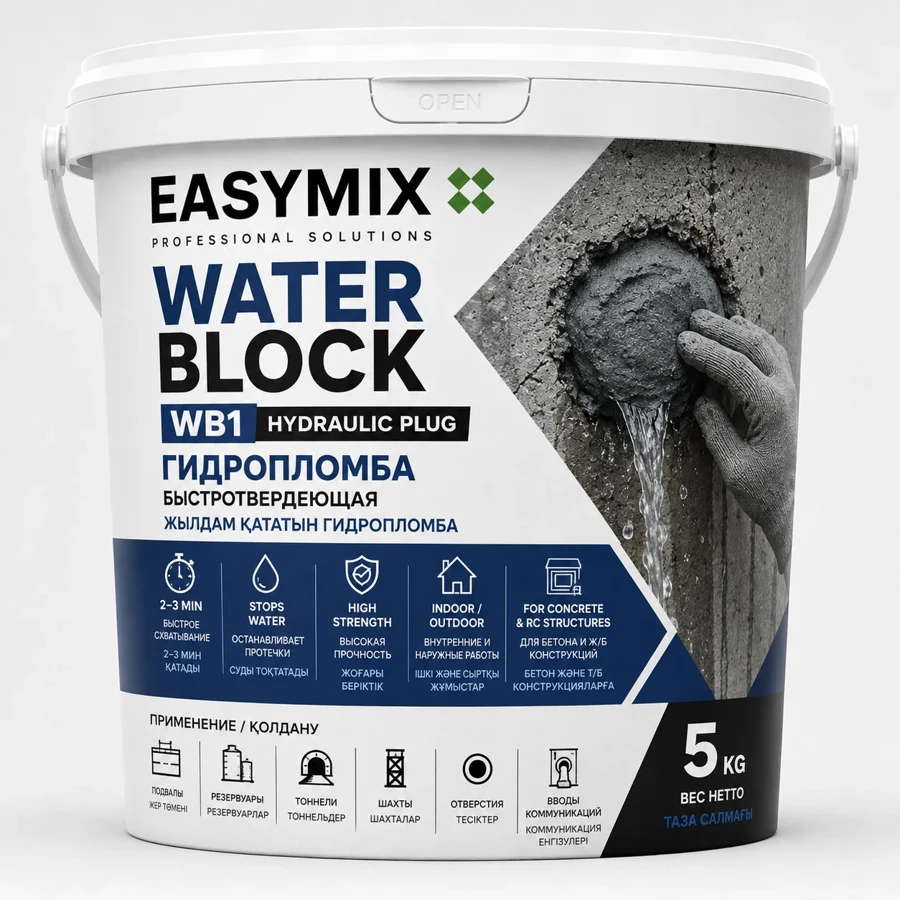
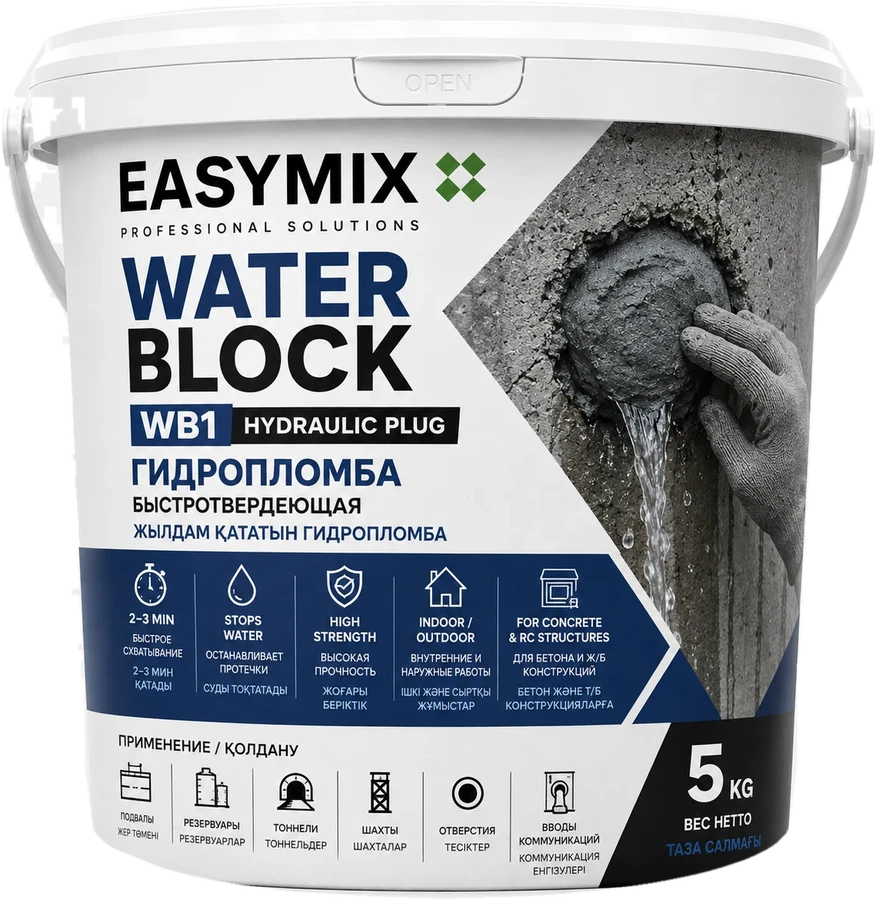
Add Shotcrete Pro CC1 with sprayed-concrete 3D scenarios; fix product image aspect
- Hero product image no longer stretches (height:auto + object-fit) and the
  WaterBlock bucket is now a clean cut-out instead of a photo card.
- New product Shotcrete Pro CC1 (bag cut-out, teal theme, bag data only) with
  three scenarios: tunnel lining, slope stabilisation with soil nails, and a
  tank wall. Generic surface-parametrised builder: cleaning jet, rebar mesh,
  wetting, nozzle spraying the layer cell by cell, curing.

Claude-Session: https://claude.ai/code/session_01V6GFFaks7djnhpgv5PP8Hc

diff --git a/index.html b/index.html
@@ -44,7 +44,7 @@
   .hero-media{position:relative;display:flex;justify-content:center;align-items:center;min-height:460px;z-index:1}
   .hero-media .glow{position:absolute;left:50%;top:50%;width:78%;aspect-ratio:1;transform:translate(-50%,-50%);border-radius:50%;
     background:radial-gradient(circle,rgba(var(--accent-rgb),.55),rgba(var(--accent-rgb),0) 68%);filter:blur(10px)}
-  .hero-bag{position:relative;width:auto;max-width:100%;max-height:520px;filter:drop-shadow(0 30px 40px rgba(0,0,0,.55));
+  .hero-bag{position:relative;width:auto;height:auto;object-fit:contain;max-width:100%;max-height:520px;filter:drop-shadow(0 30px 40px rgba(0,0,0,.55));
     animation:float 6s ease-in-out infinite;transform-origin:50% 100%}
   .hero-media .floor{position:absolute;bottom:-6px;left:18%;right:18%;height:26px;border-radius:50%;background:rgba(0,0,0,.55);filter:blur(10px);animation:floor 6s ease-in-out infinite}
   @keyframes float{0%,100%{transform:translateY(0) rotate(-1.2deg)}50%{transform:translateY(-12px) rotate(.6deg)}}
@@ -386,7 +386,7 @@ window.PRODUCTS = [{
   name: 'EasyMix WaterBlock WB1',
   short: 'WaterBlock WB1',
   kind: 'гидропломба · стоп-течь',
-  image: 'assets/waterblock-wb1-bucket.webp', imageSize: [900, 900], imageCard: true,
+  image: 'assets/waterblock-wb1-bucket.webp', imageSize: [876, 900],
   imageAlt: 'Ведро EasyMix WaterBlock WB1, гидропломба, 5 кг',
   accent: '#4f8fe8', accentRgb: '79,143,232',
   title: [['WATER BLOCK', true], ['WB1', false]],
@@ -456,6 +456,63 @@ window.PRODUCTS = [{
       { text: 'Нагружать — не ранее чем через 1 час', badge: '⏱ 1 час' },
     ]},
   ]
+}, {
+  id: 'cc1',
+  brand: 'EASYMIX',
+  name: 'EasyMix Shotcrete Pro CC1',
+  short: 'Shotcrete Pro CC1',
+  kind: 'торкрет · машинное нанесение',
+  image: 'assets/shotcrete-cc1-bag.webp', imageSize: [458, 866],
+  accent: '#2fb3a6', accentRgb: '47,179,166',
+  title: [['SHOTCRETE PRO', true], ['CC1', false]],
+  category: 'ТОРКРЕТ-БЕТОН · CEMENT BASE',
+  subtitle: 'Сухая смесь для торкретирования',
+  subtitleKz: '',
+  kpis: [
+    ['spray', 'машинное', 'нанесение набрызгом'],
+    ['layers', '10–60 мм', 'толщина слоя'],
+    ['drop', 'водостойкая', 'после твердения'],
+    ['wind', 'NO DUST', 'пониженное пылеобразование'],
+  ],
+  uses: ['Тоннели и выработки', 'Укрепление откосов', 'Стены и резервуары', 'Подпорные сооружения', '🇰🇿 Сделано в Казахстане · Актобе'],
+  description: 'Сухая смесь на цементной основе для торкретирования машинным способом: обделка тоннелей и горных выработок, укрепление откосов, ремонт и усиление стен, резервуаров и подпорных сооружений. Специально разработана для улучшенных характеристик набрызга, с пониженным пылеобразованием.',
+  price: 'Цена по запросу',
+  priceSub: 'мешок 25 кг',
+  layer: 'Shotcrete CC1',
+  specTitle: 'ХАРАКТЕРИСТИКИ (по данным упаковки)',
+  calc: { kgPerMm: 2, def: 40, min: 10, max: 60, gravel: false, water: null,   // ⚠ расход — уточнить по техописанию CC1
+          note: 'Расчёт ориентировочный (≈ 20 кг/м² при слое 10 мм, без учёта отскока) — уточните расход по техописанию CC1.' },
+  specs: [
+    ['10–60 мм', 'толщина слоя'],
+    ['машинное', 'нанесение набрызгом'],
+    ['водостойкая', 'после твердения'],
+    ['NO DUST', 'пониженное пылеобразование'],
+    ['цемент', 'основа (cement base)'],
+    ['25 кг', 'мешок'],
+  ],
+  scenarios: [
+    { id: 'tunnel', tab: 'Тоннель / выработка', steps: [
+      { text: 'Очистка выработки: удаление непрочной породы, пыли и грязи сжатым воздухом и водой' },
+      { text: 'Монтаж арматурной сетки по своду и стенам тоннеля' },
+      { text: 'Увлажнение основания до матово-влажного состояния' },
+      { text: 'Торкретирование машинным способом: сопло перпендикулярно поверхности, слой 10–60 мм', badge: '10–60 мм за слой' },
+      { text: 'Набор прочности; при необходимости — следующий слой. Поверхность защищают от пересыхания' },
+    ]},
+    { id: 'slope', tab: 'Укрепление откоса', steps: [
+      { text: 'Планировка откоса: удаление рыхлого грунта и растительности' },
+      { text: 'Установка грунтовых анкеров и арматурной сетки' },
+      { text: 'Увлажнение основания' },
+      { text: 'Торкретирование снизу вверх слоем 10–60 мм', badge: '10–60 мм за слой' },
+      { text: 'Набор прочности — откос укреплён; уход за поверхностью от пересыхания' },
+    ]},
+    { id: 'tankwall', tab: 'Стена / резервуар', steps: [
+      { text: 'Очистка стены от непрочного бетона, пыли и загрязнений' },
+      { text: 'Монтаж арматурной сетки на анкерах' },
+      { text: 'Увлажнение основания до матово-влажного состояния' },
+      { text: 'Торкретирование стены снизу вверх слоем 10–60 мм — без пыли', badge: '10–60 мм за слой' },
+      { text: 'Выравнивание при необходимости и уход за поверхностью' },
+    ]},
+  ]
 }];
 </script>
 
@@ -477,6 +534,8 @@ const PI = Math.PI;
 
 /* ======================= static texts ======================= */
 const ICONS = {
+  spray: '<svg viewBox="0 0 24 24" fill="none" stroke="currentColor" stroke-width="2" stroke-linecap="round"><path d="M3 10h8l2 2v2H3z"/><path d="M5 14v6M16 9l4-2M16 13h5M16 17l4 2"/></svg>',
+  wind: '<svg viewBox="0 0 24 24" fill="none" stroke="currentColor" stroke-width="2" stroke-linecap="round"><path d="M3 8h10a3 3 0 1 0-3-3M3 12h15a3 3 0 1 1-3 3M3 16h7"/><path d="M4 4l16 16"/></svg>',
   drop: '<svg viewBox="0 0 24 24" fill="none" stroke="currentColor" stroke-width="2" stroke-linejoin="round"><path d="M12 3s6 6.5 6 11a6 6 0 0 1-12 0c0-4.5 6-11 6-11Z"/></svg>',
   shield: '<svg viewBox="0 0 24 24" fill="none" stroke="currentColor" stroke-width="2" stroke-linejoin="round" stroke-linecap="round"><path d="M12 3 5 6v5c0 4.5 3 8 7 10 4-2 7-5.5 7-10V6l-7-3Z"/><path d="m9 12 2 2 4-4"/></svg>',
   clock: '<svg viewBox="0 0 24 24" fill="none" stroke="currentColor" stroke-width="2" stroke-linecap="round"><circle cx="12" cy="13" r="8"/><path d="M12 9v4l2.5 2M9 2h6M12 2v3"/></svg>',
@@ -507,7 +566,7 @@ function renderProduct() {
   P.title.forEach(([t, acc]) => h1.appendChild(el('span', acc ? 'y' : '', t)));
   h1.classList.toggle('long', P.title.some(([t]) => t.length > 8));
   $('sub').textContent = P.subtitle + (P.analog ? ' · ' + P.analog : '');
-  $('subKz').textContent = P.subtitleKz;
+  $('subKz').textContent = P.subtitleKz || ''; $('subKz').hidden = !P.subtitleKz;
   $('desc').textContent = P.description;
   $('price').textContent = P.price;
   $('priceSub').textContent = P.priceSub;
@@ -1757,6 +1816,206 @@ BUILDERS.post = () => {
     }
   };
 };
+
+
+/* ---------- Shotcrete Pro CC1: machine-sprayed concrete ---------- */
+// emitter of particles flying from `from` to `to` (instanced)
+function makeJet(n, mat, parent, life = 0.38) {
+  const inst = new THREE.InstancedMesh(new THREE.SphereGeometry(0.03, 6, 5), mat, n);
+  inst.frustumCulled = false; parent.add(inst);
+  const r = rand(55), D = []; for (let i = 0; i < n; i++) D.push({ o: r(), a: r() * PI * 2, d: Math.sqrt(r()) });
+  const m4 = new THREE.Matrix4(), q = new THREE.Quaternion(), sc = new THREE.Vector3(), p = new THREE.Vector3(), side = new THREE.Vector3(), up2 = new THREE.Vector3();
+  return (on, from, to, t, spread = 0.25) => {
+    if (on) { side.subVectors(to, from).normalize(); up2.set(0, 1, 0); if (Math.abs(side.y) > 0.9) up2.set(1, 0, 0); up2.crossVectors(side, up2).normalize(); side.crossVectors(up2, side.clone().subVectors(to, from).normalize()); }
+    for (let i = 0; i < n; i++) {
+      const d = D[i];
+      if (!on) { sc.set(0, 0, 0); } else {
+        const ph = (t / life + d.o) % 1;
+        p.lerpVectors(from, to, ph);
+        const off = spread * d.d * ph;
+        p.addScaledVector(up2, Math.cos(d.a) * off).addScaledVector(side, Math.sin(d.a) * off);
+        sc.setScalar(0.7 + 0.6 * (1 - ph));
+      }
+      m4.compose(p, q, sc); inst.setMatrixAt(i, m4);
+    }
+    inst.instanceMatrix.needsUpdate = true;
+  };
+}
+function makeNozzle(parent) {
+  const g = new THREE.Group(); parent.add(g);
+  const mat = own(M.bucket); mat.color.set(P.accent); mat.side = THREE.FrontSide; mat.roughness = 0.5;
+  const body = new THREE.CylinderGeometry(0.07, 0.11, 0.6, 16); body.rotateX(PI / 2); mesh(body, mat, g).position.z = 0.3;
+  const tip = new THREE.CylinderGeometry(0.035, 0.06, 0.2, 12); tip.rotateX(PI / 2); mesh(tip, M.metal, g).position.z = -0.05;
+  const hose = new THREE.CylinderGeometry(0.06, 0.06, 1.4, 12); hose.rotateX(PI / 2); mesh(hose, M.slit, g).position.z = 1.3;
+  const handle = mesh(new THREE.BoxGeometry(0.05, 0.22, 0.06), M.metal, g); handle.position.set(0, -0.14, 0.35);
+  const Z = V(0, 0, -1);
+  return (vis, pos, n) => { g.visible = vis; if (!vis) return; g.position.copy(pos); g.quaternion.setFromUnitVectors(Z, n.clone().negate()); };
+}
+
+function shotcreteBuilder(o) {
+  const grp = new THREE.Group(); world.add(grp); if (o.place) o.place(grp);
+  grp.updateMatrixWorld(true);
+  const ctx = o.context(grp);
+  const wetBase = wetter(ctx.baseMat);
+  const gLocal = V(0, -1, 0).applyQuaternion(grp.quaternion.clone().invert());
+  const NU = o.nu, NV = o.nv, TH = o.th;
+  const P0 = V(), N0 = V(), P1 = V(), N1 = V(), P2 = V();
+  const at = (u, v, off = 0) => { o.surf(u, v, P0, N0); return P0.clone().addScaledVector(N0, off); };
+  const nrm = (u, v) => { o.surf(u, v, P0, N0); return N0.clone(); };
+  const r = rand(o.seed || 21);
+
+  // loose material (step 1)
+  const items = [];
+  for (let i = 0; i < 30; i++) {
+    const u = 0.05 + r() * 0.9, v = 0.05 + r() * 0.9, sz = 0.06 + r() * 0.08;
+    const m = mesh(new THREE.DodecahedronGeometry(sz, 0), own(M.old), grp); m.position.copy(at(u, v, sz * 0.5)); m.rotation.set(r() * 3, r() * 3, r() * 3);
+    items.push({ mesh: m, p0: m.position.clone(), r0: m.rotation.clone(), v: nrm(u, v).multiplyScalar(0.6 + r() * 0.6), start: 0.1 + r() * 0.6 });
+  }
+  const debris = sv => items.forEach(it => {
+    const dt = Math.max(0, (sv - it.start) * 2.2), m = it.mesh;
+    m.position.copy(it.p0).addScaledVector(it.v, dt).addScaledVector(gLocal, 4.9 * dt * dt);
+    m.rotation.set(it.r0.x + dt * 3, it.r0.y + dt * 2, it.r0.z + dt * 4);
+    const f = clamp01(1 - dt * 1.4); m.material.opacity = f; m.visible = f > 0.01;
+  });
+
+  // reinforcement mesh (+ optional anchors)
+  const meshMat = own(M.steel); meshMat.transparent = true;
+  const lines = [], ML = o.meshLines || [10, 8];
+  const tube = pts => mesh(new THREE.TubeGeometry(new THREE.CatmullRomCurve3(pts), 48, 0.014, 6), meshMat, grp, false);
+  for (let j = 0; j <= ML[1]; j++) { const v = 0.03 + 0.94 * j / ML[1], pts = []; for (let k = 0; k <= 24; k++) pts.push(at(k / 24, v, TH * 0.45)); lines.push(tube(pts)); }
+  for (let i = 0; i <= ML[0]; i++) { const u = 0.03 + 0.94 * i / ML[0], pts = []; for (let k = 0; k <= 24; k++) pts.push(at(u, k / 24, TH * 0.45 + 0.03)); lines.push(tube(pts)); }
+  const anchors = [];
+  (o.anchors || []).forEach(([u, v]) => {
+    const g = new THREE.Group(); grp.add(g); const n = nrm(u, v);
+    g.position.copy(at(u, v, TH * 0.3)); g.quaternion.setFromUnitVectors(V(0, 0, 1), n);
+    mesh(new THREE.BoxGeometry(0.24, 0.24, 0.025), M.steel, g);
+    const rod = new THREE.CylinderGeometry(0.025, 0.025, 1.6, 10); rod.rotateX(PI / 2); mesh(rod, M.steel, g).position.z = -0.7;
+    mesh(new THREE.CylinderGeometry(0.045, 0.045, 0.05, 6).rotateX(PI / 2), M.metal, g).position.z = 0.03;
+    anchors.push(g);
+  });
+
+  // shotcrete layer cells, serpentine from the first row
+  const fillMat = own(M.fill), cells = [], order = [];
+  for (let j = 0; j < NV; j++) for (let ii = 0; ii < NU; ii++) order.push([j % 2 ? NU - 1 - ii : ii, j]);
+  const m4 = new THREE.Matrix4(), tu = V(), tv = V();
+  order.forEach(([i, j], idx) => {
+    const u = (i + 0.5) / NU, v = (j + 0.5) / NV;
+    o.surf(u, v, P0, N0); o.surf(Math.min(1, u + 0.5 / NU), v, P1, N1); o.surf(u, Math.min(1, v + 0.5 / NV), P2, N1);
+    const wu = P1.distanceTo(P0) * 2, wv = P2.distanceTo(P0) * 2;
+    tu.subVectors(P1, P0).normalize(); tv.crossVectors(N0, tu).normalize();
+    const thk = TH * (0.95 + r() * 0.1), g = new THREE.BoxGeometry(wu * 1.06, wv * 1.06, thk); g.translate(0, 0, thk / 2);
+    const m = mesh(g, fillMat, grp); m.position.copy(P0); m.quaternion.setFromRotationMatrix(m4.makeBasis(tu, tv, N0));
+    m.userData = { idx, u, v, n: N0.clone() }; cells.push(m);
+  });
+  const NC = cells.length;
+
+  const nozzle = makeNozzle(grp);
+  const mortarJet = makeJet(140, own(M.fill), grp);
+  const waterJet = makeJet(90, M.drop, grp, 0.45);
+  const target = V(), from = V();
+
+  const L = (u, v, off) => () => grp.localToWorld(at(u, v, off));
+  return {
+    camera: o.camera,
+    labels: [
+      { text: o.baseLabel, pos: () => grp.localToWorld(o.baseAt.clone()) },
+      { text: 'Арматурная сетка', pos: L(0.72, 0.62, TH * 0.45), show: (st, k) => st === 2 || (st === 1 && k > 0.6) },
+      ...(o.anchors ? [{ text: 'Грунтовые анкеры', pos: L(o.anchors[0][0], o.anchors[0][1], TH * 0.45 + 0.06), show: (st, k) => st === 1 && k > 0.4 }] : []),
+      { text: 'Сопло торкрет-машины', pos: () => grp.localToWorld(from.clone()), show: (st, k) => st === 3 && k > 0.1 && k < 0.9 },
+      { text: P.layer + ' · 10–60 мм', pos: L(0.3, 0.35, TH), show: (st, k) => st === 4 || (st === 3 && k > 0.7) },
+    ],
+    apply({ s, step, t }) {
+      // 1: cleaning with air / water
+      debris(s[0]);
+      const sweep = (sv, a, b) => { const u = seg(sv, a, b) * 3, row = Math.min(2, Math.floor(u)), f = u - row; return [row % 2 ? 1 - f : f, 0.2 + 0.3 * row]; };
+      let nozOn = false;
+      if (step === 0 && s[0] > 0.05 && s[0] < 0.92) {
+        const [u, v] = sweep(s[0], 0.05, 0.92); target.copy(at(u, v)); from.copy(at(u, v, 1.5)); nozOn = true;
+        waterJet(true, from, target, t, 0.35);
+      } else if (step === 2 && s[2] > 0.05 && s[2] < 0.92) {
+        const [u, v] = sweep(s[2], 0.05, 0.92); target.copy(at(u, v)); from.copy(at(u, v, 1.5)); nozOn = true;
+        waterJet(true, from, target, t, 0.3);
+      } else waterJet(false);
+      wetBase(ease(seg(s[2], 0.1, 0.85)));
+
+      // 2: mesh + anchors
+      const mp = step > 1 ? 1 : step === 1 ? seg(s[1], 0.05, 0.85) : 0;
+      lines.forEach((m, i) => { m.visible = mp > i / lines.length; });
+      meshMat.opacity = 1;
+      anchors.forEach((g, i) => { g.visible = mp > i / Math.max(1, anchors.length) * 0.8; });
+
+      // 4: shotcreting
+      const ap = step > 3 ? NC : step === 3 ? seg(s[3], 0.08, 0.92) * NC : 0;
+      cells.forEach(m => {
+        const a = clamp01((ap - m.userData.idx) * 0.7);
+        m.visible = a > 0; m.scale.set(1, 1, Math.max(0.02, easeOut(a)));
+      });
+      if (step === 3 && s[3] > 0.04 && s[3] < 0.95) {
+        const c = cells[Math.min(NC - 1, Math.floor(ap))];
+        target.copy(c.position).addScaledVector(c.userData.n, TH * 0.5);
+        from.copy(target).addScaledVector(c.userData.n, 1.35).add(V(Math.sin(t * 5) * 0.08, Math.cos(t * 4) * 0.08, 0));
+        nozOn = true; mortarJet(true, from, target, t, 0.22);
+      } else mortarJet(false);
+      nozzle(nozOn, from, target.clone().sub(from).normalize().negate());
+
+      fillMat.color.copy(FILL_WET).lerp(FILL_CURED, ease(seg(s[4], 0.05, 0.8)));
+      fillMat.roughness = 0.45 + 0.5 * seg(s[4], 0.05, 0.8);
+    }
+  };
+}
+
+BUILDERS.tunnel = () => {
+  const R = 3.2;
+  return shotcreteBuilder({
+    nu: 18, nv: 7, th: 0.14, meshLines: [14, 6],
+    surf: (u, v, p, n) => { const a = PI * (0.05 + 0.9 * u), z = -2.4 + 4.8 * v; p.set(R * Math.cos(a), R * Math.sin(a), z); n.set(-Math.cos(a), -Math.sin(a), 0); },
+    context: () => {
+      const rock = own(M.gravel); rock.color.set(0xb8aea0);
+      const sh = new THREE.Shape();
+      sh.moveTo(-5.5, 0); sh.lineTo(-R, 0); sh.absarc(0, 0, R, PI, 0, true); sh.lineTo(5.5, 0); sh.lineTo(5.5, 5.6); sh.lineTo(-5.5, 5.6); sh.closePath();
+      mesh(new THREE.ExtrudeGeometry(sh, { depth: 5.2, bevelEnabled: false, curveSegments: 64 }), rock).position.z = -2.6;
+      box(-5.5, 5.5, -0.4, 0, -2.6, 6, M.road);
+      for (const x of [-0.75, 0.75]) box(x - 0.05, x + 0.05, 0, 0.1, -2.6, 6, M.steel);
+      return { baseMat: rock };
+    },
+    baseLabel: 'Горная порода', baseAt: V(-4.0, 4.4, 2.6),
+    camera: { a: 0.22, r: 13, h: 3.0, ty: 2.1 },
+  });
+};
+BUILDERS.slope = () => {
+  const L = 5;
+  return shotcreteBuilder({
+    nu: 14, nv: 9, th: 0.13, meshLines: [12, 8], seed: 8,
+    place: g => { g.rotation.x = -0.62; },
+    surf: (u, v, p, n) => { p.set(-3.2 + 6.4 * u, 0.25 + (L - 0.5) * v, 0); n.set(0, 0, 1); },
+    anchors: [[0.15, 0.2], [0.5, 0.2], [0.85, 0.2], [0.15, 0.55], [0.5, 0.55], [0.85, 0.55], [0.15, 0.88], [0.5, 0.88], [0.85, 0.88]],
+    context: g => {
+      const soil = own(M.soil);
+      box(-3.5, 3.5, 0, L, -2.5, 0, soil, g);
+      box(-4.5, 4.5, -0.4, 0, -0.5, 4.5, M.road);
+      const top = L * Math.cos(0.62), back = -L * Math.sin(0.62);
+      box(-3.5, 3.5, top - 1.2, top, back - 3, back + 0.02, M.soil);
+      const grass = own(M.tile); grass.map = null; grass.color.set(0x6f9a4a);
+      box(-3.5, 3.5, top, top + 0.06, back - 3, back + 0.02, grass);
+      return { baseMat: soil };
+    },
+    baseLabel: 'Грунт откоса', baseAt: V(3.5, 1.2, -0.6),
+    camera: { a: 0.55, r: 12, h: 4.6, ty: 1.9, tz: -1 },
+  });
+};
+BUILDERS.tankwall = () => shotcreteBuilder({
+  nu: 14, nv: 8, th: 0.12, meshLines: [12, 7], seed: 4,
+  surf: (u, v, p, n) => { p.set(-3.2 + 6.4 * u, 0.2 + 3.6 * v, 0); n.set(0, 0, 1); },
+  context: g => {
+    const wall = own(M.base);
+    mesh(extrudeZ(rectXY(-3.5, 3.5, -0.3, 4.1), 0.8), wall, g).position.z = -0.8;
+    box(-4.3, -3.5, -0.3, 4.1, -0.8, 3.5, M.base, g);
+    box(-4.5, 4.5, -0.4, 0, 0, 4.5, M.road);
+    return { baseMat: wall };
+  },
+  baseLabel: 'Стена резервуара', baseAt: V(2.6, 3.9, 0),
+  camera: { a: 0.42, r: 10.5, h: 3.1, ty: 1.9 },
+});
 
 /* ======================= scenario engine ======================= */
 const STEP = 4.5;                 // seconds per step

diff --git a/README.md b/README.md
@@ -1,6 +1,6 @@
 # EasyMix — 3D-анатомия применения
 
-Продукты: **Rapid T600** (наливной быстротвердеющий), **Repair Master RP650** (ремонт железобетона) и **WaterBlock WB1** (гидропломба). Переключатель продуктов вверху страницы; ссылки вида `index.html#t600/manhole`, `index.html#rp650/column`.
+Продукты: **Rapid T600** (наливной быстротвердеющий), **Repair Master RP650** (ремонт железобетона), **WaterBlock WB1** (гидропломба) и **Shotcrete Pro CC1** (торкрет-бетон). Переключатель продуктов вверху страницы; ссылки вида `index.html#t600/manhole`, `index.html#rp650/column`.
 
 ## Rapid T600
 
@@ -36,6 +36,16 @@
 | Сильный поток | `#wb1/flow` | расшивка → отводная трубка → заделка вокруг → пробка в отвод → гидроизоляция |
 | Анкерование стойки | `#wb1/post` | очистка и смачивание → заполнение → установка стойки → нагрузка через 1 ч |
 
+## Shotcrete Pro CC1 (торкрет-бетон)
+
+| Вкладка | Ссылка | Шаги |
+| --- | --- | --- |
+| Тоннель / выработка | `#cc1/tunnel` | очистка → арматурная сетка по своду → увлажнение → торкретирование 10–60 мм → набор прочности |
+| Укрепление откоса | `#cc1/slope` | планировка → грунтовые анкеры и сетка → увлажнение → торкретирование снизу вверх → готово |
+| Стена / резервуар | `#cc1/tankwall` | очистка → сетка на анкерах → увлажнение → торкретирование → уход |
+
+⚠ Для CC1 доступны только данные с мешка; расход в калькуляторе (≈ 20 кг/м² на 10 мм) — ориентировочный.
+
 Калькулятор для WaterBlock считает по объёму расшивки (2,1 кг/дм³, 0,24 л воды на 1 кг) и подбирает вёдра 15/5/1 кг.
 
 Плюс блок ключевых характеристик и калькулятор расхода (20 кг/м² на 10 мм, щебень для слоя > 50 мм).
@@ -62,3 +72,7 @@
 ![](previews/wb1-joint.png)
 ![](previews/wb1-pipe.png)
 ![](previews/wb1-post.png)
+![](previews/hero-cc1.png)
+![](previews/cc1-tunnel.png)
+![](previews/cc1-slope.png)
+![](previews/cc1-tankwall.png)
